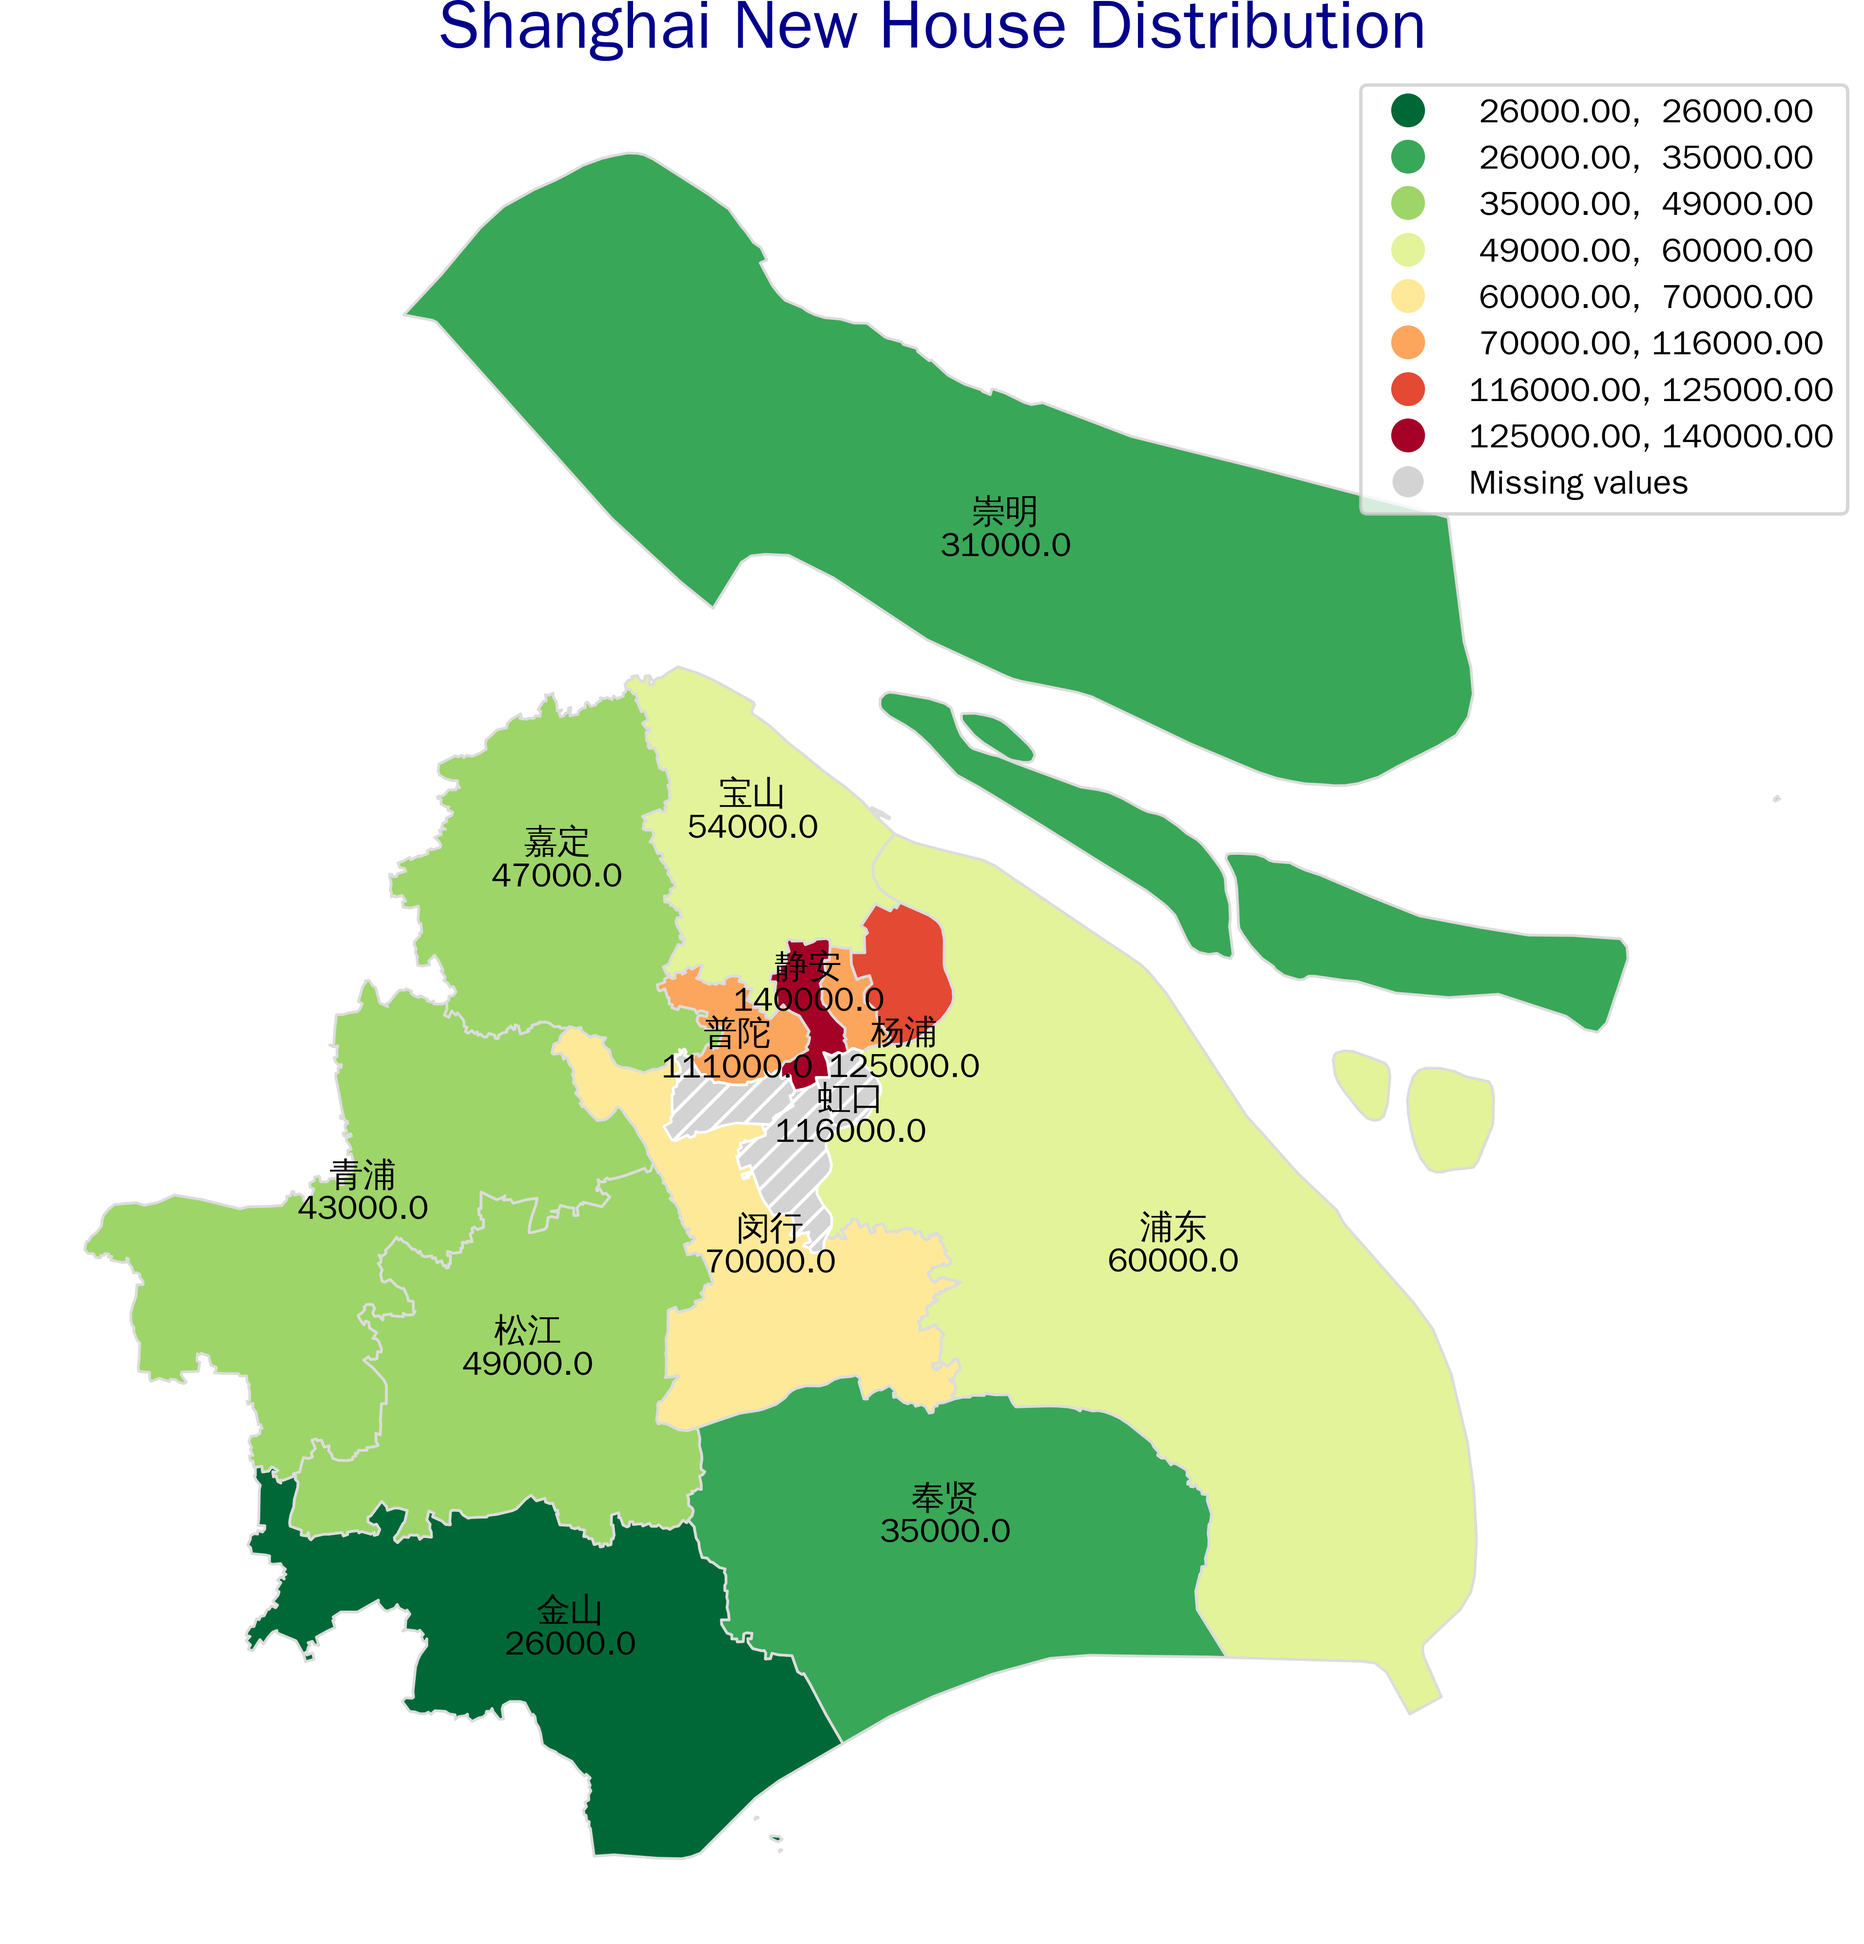
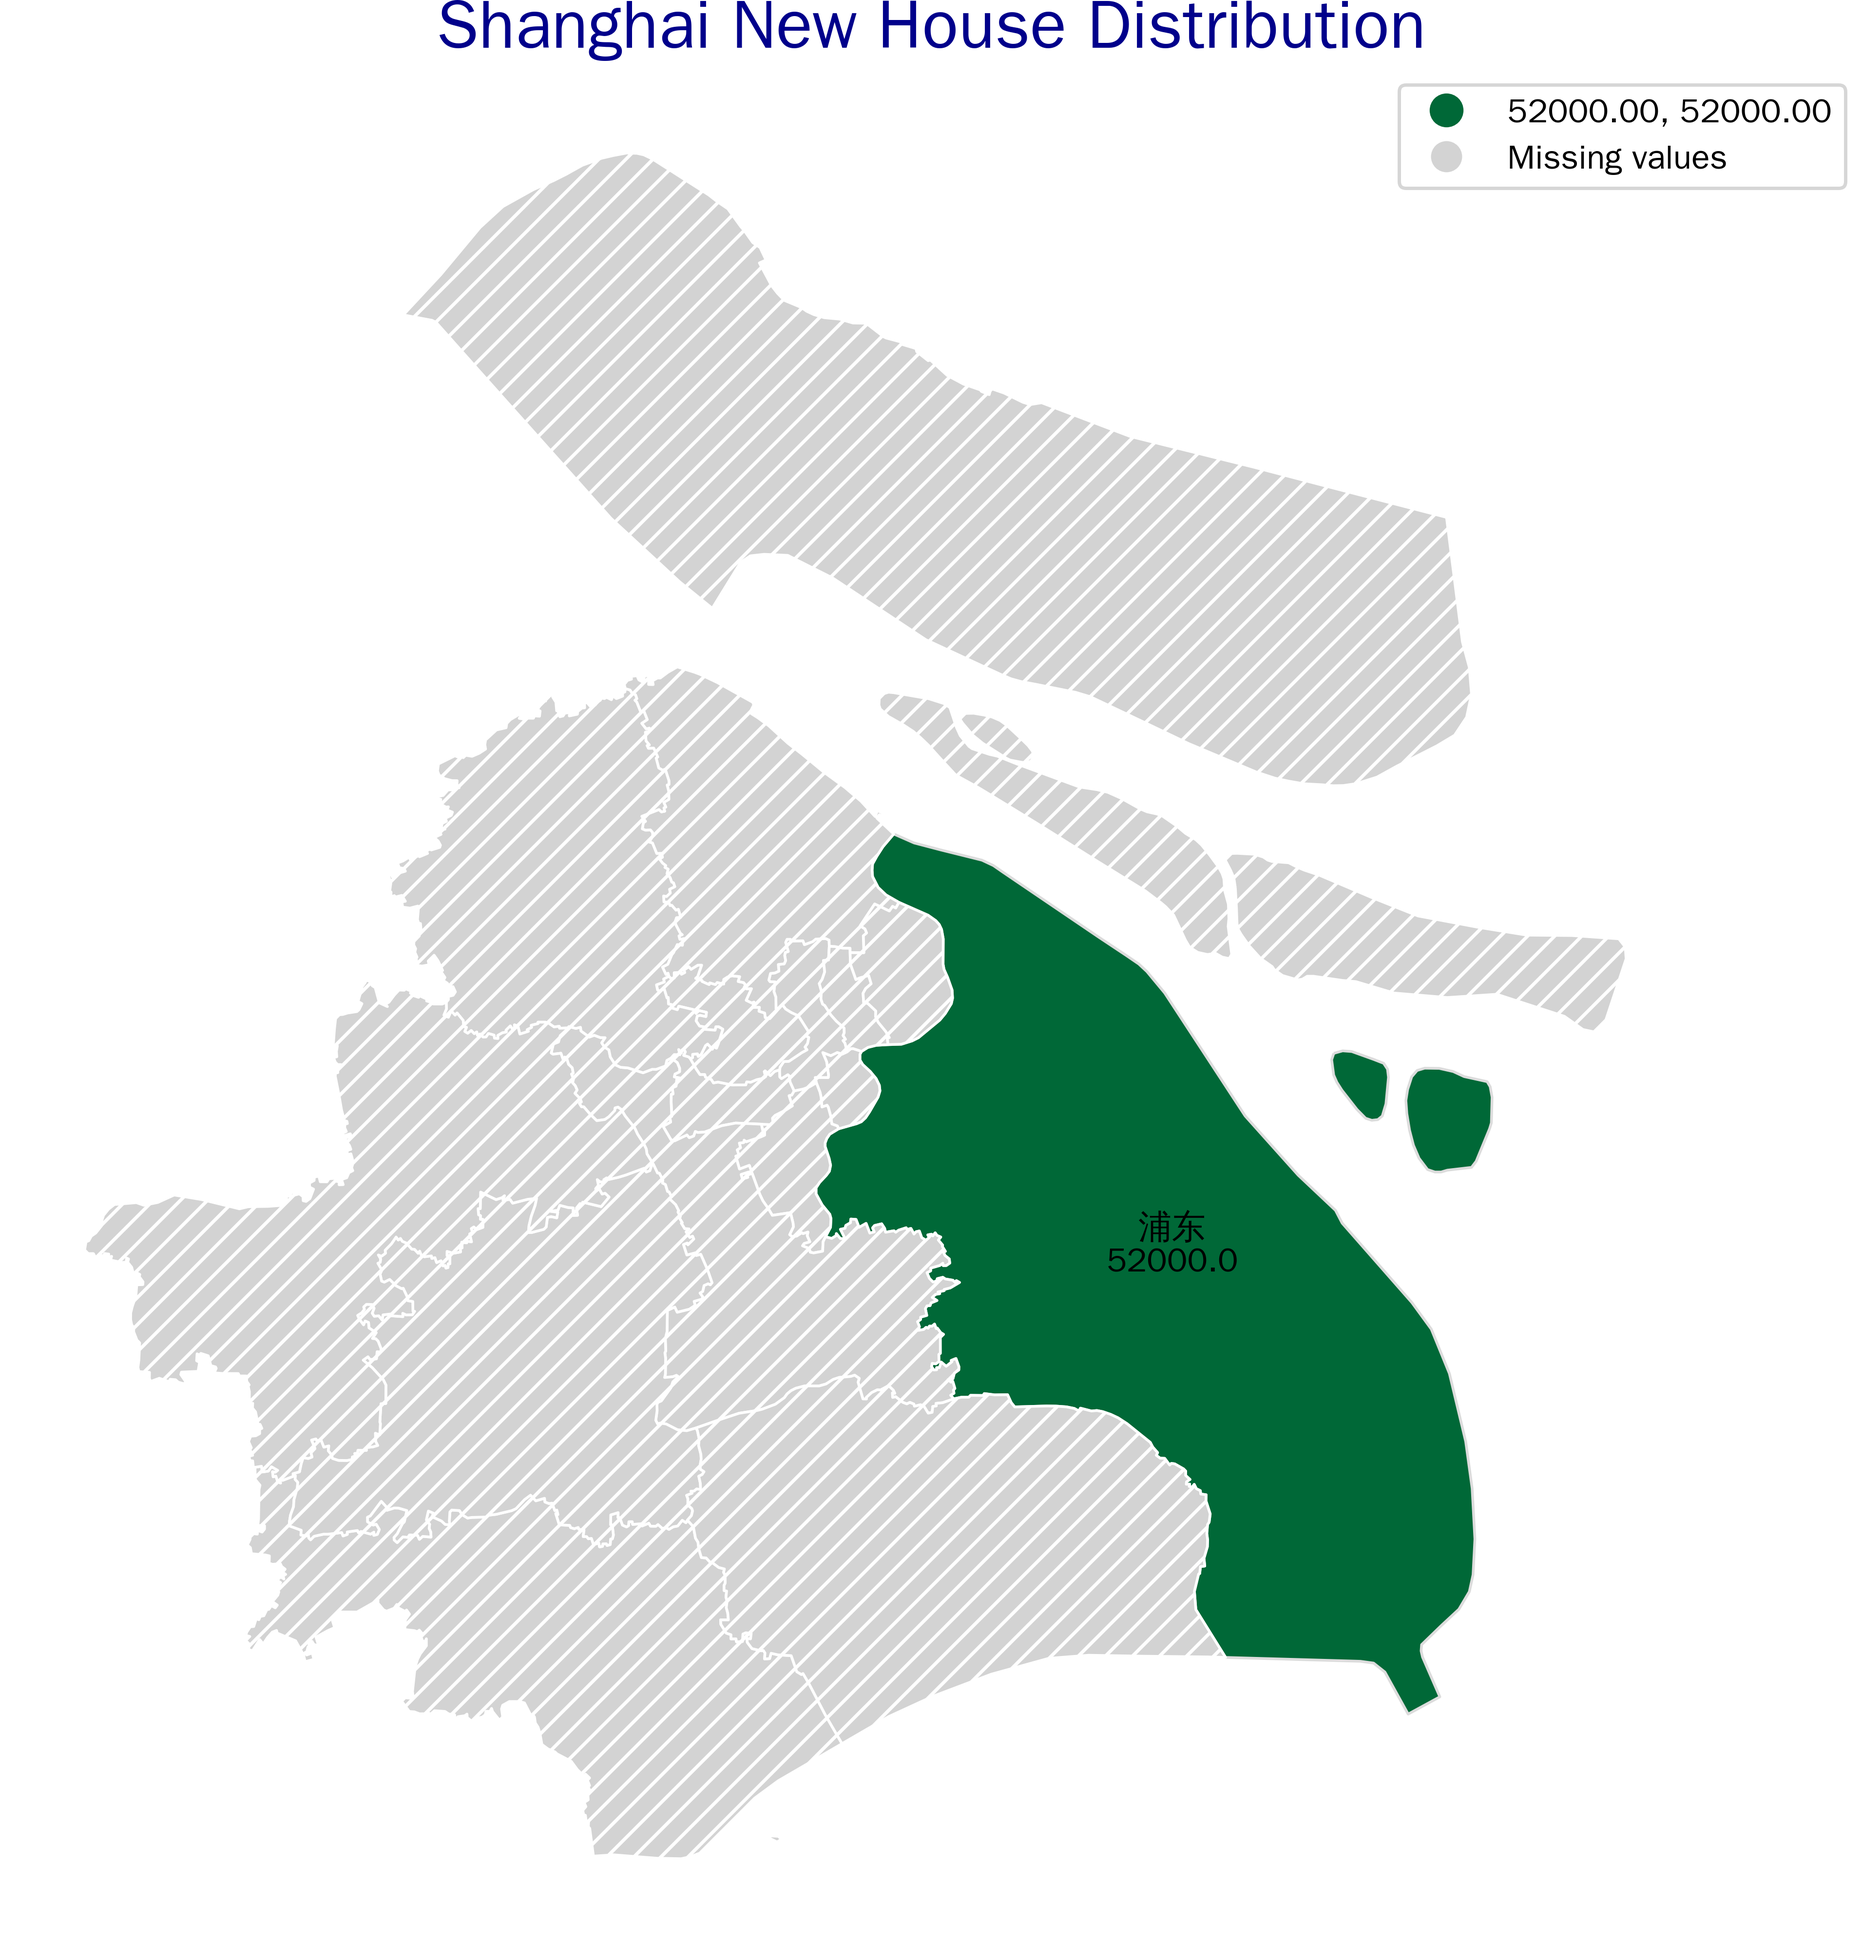
update

diff --git a/pub_finance/finance/HouseInfoCrawler.py b/pub_finance/finance/HouseInfoCrawler.py
@@ -14,67 +14,71 @@ import os
 
 """ 
 上海区域地图数据：https://geo.datav.aliyun.com/areas_v3/bound/310000_full.json
+链家数据：https://sh.fang.lianjia.com/loupan/minhang/nht1nht2nhs1pg1/?_t=1/
+huangpu-xuhui-changning-jingan-putuo-hongkou-yangpu-minhang-baoshan-jiading-pudong-jinshan-songjiang-qingpu-fengxian-chongming
+
 """
 
 
 class HouseInfoCrawler:
     def get_house_info(self):
-        url = (
-            "https://sh.fang.lianjia.com/loupan/nhs1pgpage_no/?_t=1"
-        )
+
+   
         houselist = []
         filename = './houseinfo/newhouse.csv'
 
         # 如果文件存在，则删除文件
         if os.path.isfile(filename):
             os.remove(filename)
+        district_list = ['huangpu','xuhui','changning','jingan','putuo','hongkou','yangpu','minhang','baoshan','jiading','pudong','jinshan','songjiang','qingpu','fengxian','chongming']
+        cnt = 0
         t = ToolKit("策略执行中")
-        for i in range(1, 200):
-            dict = {}
-            list = []
-            # time.sleep(0.5)
-            url_re = (
-                url.replace("page_no", str(i))
-            )
-            res = requests.get(url_re).text
-            json_object = json.loads(res)
-            t.progress_bar(200, i)
-            if json_object['errno'] != 0:
-                continue
-            for h, j in enumerate(json_object['data']['list']):
-                if j ['title'] == '浦发唐城二期':
-                    print(j['title'])
-                if not j['title']:
+        for idx, district in enumerate(district_list):
+            t.progress_bar(len(district_list), idx)
+            
+            for i in range(1, 10):
+                dict = {}
+                list = []
+                url = (
+                    "https://sh.fang.lianjia.com/loupan/district/nht1nht2nhs1pgpageno/?_t=1/"
+                )                
+                url_re = (
+                    url.replace("pageno", str(i)).replace("district", district)
+                )
+                res = requests.get(url_re).json()
+                if len(res['data']['list']) == 0:
                     continue
-                if j['title'] == '无':
-                    continue
-                if j['title'] in houselist:
-                    continue
-                if j['district'] not in ('崇明', '金山', '奉贤', '青浦', '松江', '嘉定', '闵行', '杨浦', '虹口', '宝山', '浦东', '普陀', '长宁', '黄浦', '徐汇', '静安'):
-                    continue
-                if j['house_type'] not in ('住宅','别墅'):
-                    continue
-                dict = {
-                    "title": j['title'],
-                    "district": j['district'],
-                    "bizcircle_name": j['bizcircle_name'],
-                    "avg_price": j['average_price'],
-                    "sale_status": j['sale_status'],
-                    "open_date": j['open_date'],
-                    "longitude" : j['longitude'],
-                    "latitude" : j['latitude'],
-                    "tags" : j['tags'],
-                    "index": i
-                }
-                houselist.append(j['title'])
-                list.append(dict)
-
-            df = pd.DataFrame(list)
-            df.to_csv(
-                filename,
-                mode="a",
-                index=False,
-                header=(i == 1))
+                for h, j in enumerate(res['data']['list']):
+                    if not j['longitude']:
+                        continue
+                    if not j['latitude']:
+                        continue
+                    if "".join([j['title'], j['house_type']]) in houselist:
+                        continue
+                    dict = {
+                        "title": j['title'],
+                        "house_type": j['house_type'],
+                        "district": j['district'],
+                        "bizcircle_name": j['bizcircle_name'],
+                        "avg_price": j['average_price'],
+                        "area_range": j['resblock_frame_area_range'],
+                        "sale_status": j['sale_status'],
+                        "open_date": j['open_date'],
+                        "longitude" : j['longitude'],
+                        "latitude" : j['latitude'],
+                        "tags" : j['tags'],
+                        "index": i
+                    }
+                    houselist.append("".join([j['title'], j['house_type']]))
+                    list.append(dict)
+                    print('h:', h)
+                df = pd.DataFrame(list)
+                df.to_csv(
+                    filename,
+                    mode="a",
+                    index=False,
+                    header=(cnt == 0))
+                cnt = cnt + 1
 
 
 hi = HouseInfoCrawler()
@@ -86,7 +90,7 @@ path = './houseinfo/shanghaidistrict.json'
 data = gpd.read_file(path)
 
 df_new_house = pd.read_csv('./houseinfo/newhouse.csv', usecols=[
-                           i for i in range(0, 10)])
+                           i for i in range(0, 12)])
 
 gdf_new_house = gpd.GeoDataFrame(
     df_new_house, geometry=gpd.points_from_xy(df_new_house.longitude, df_new_house.latitude), crs="EPSG:4326"
